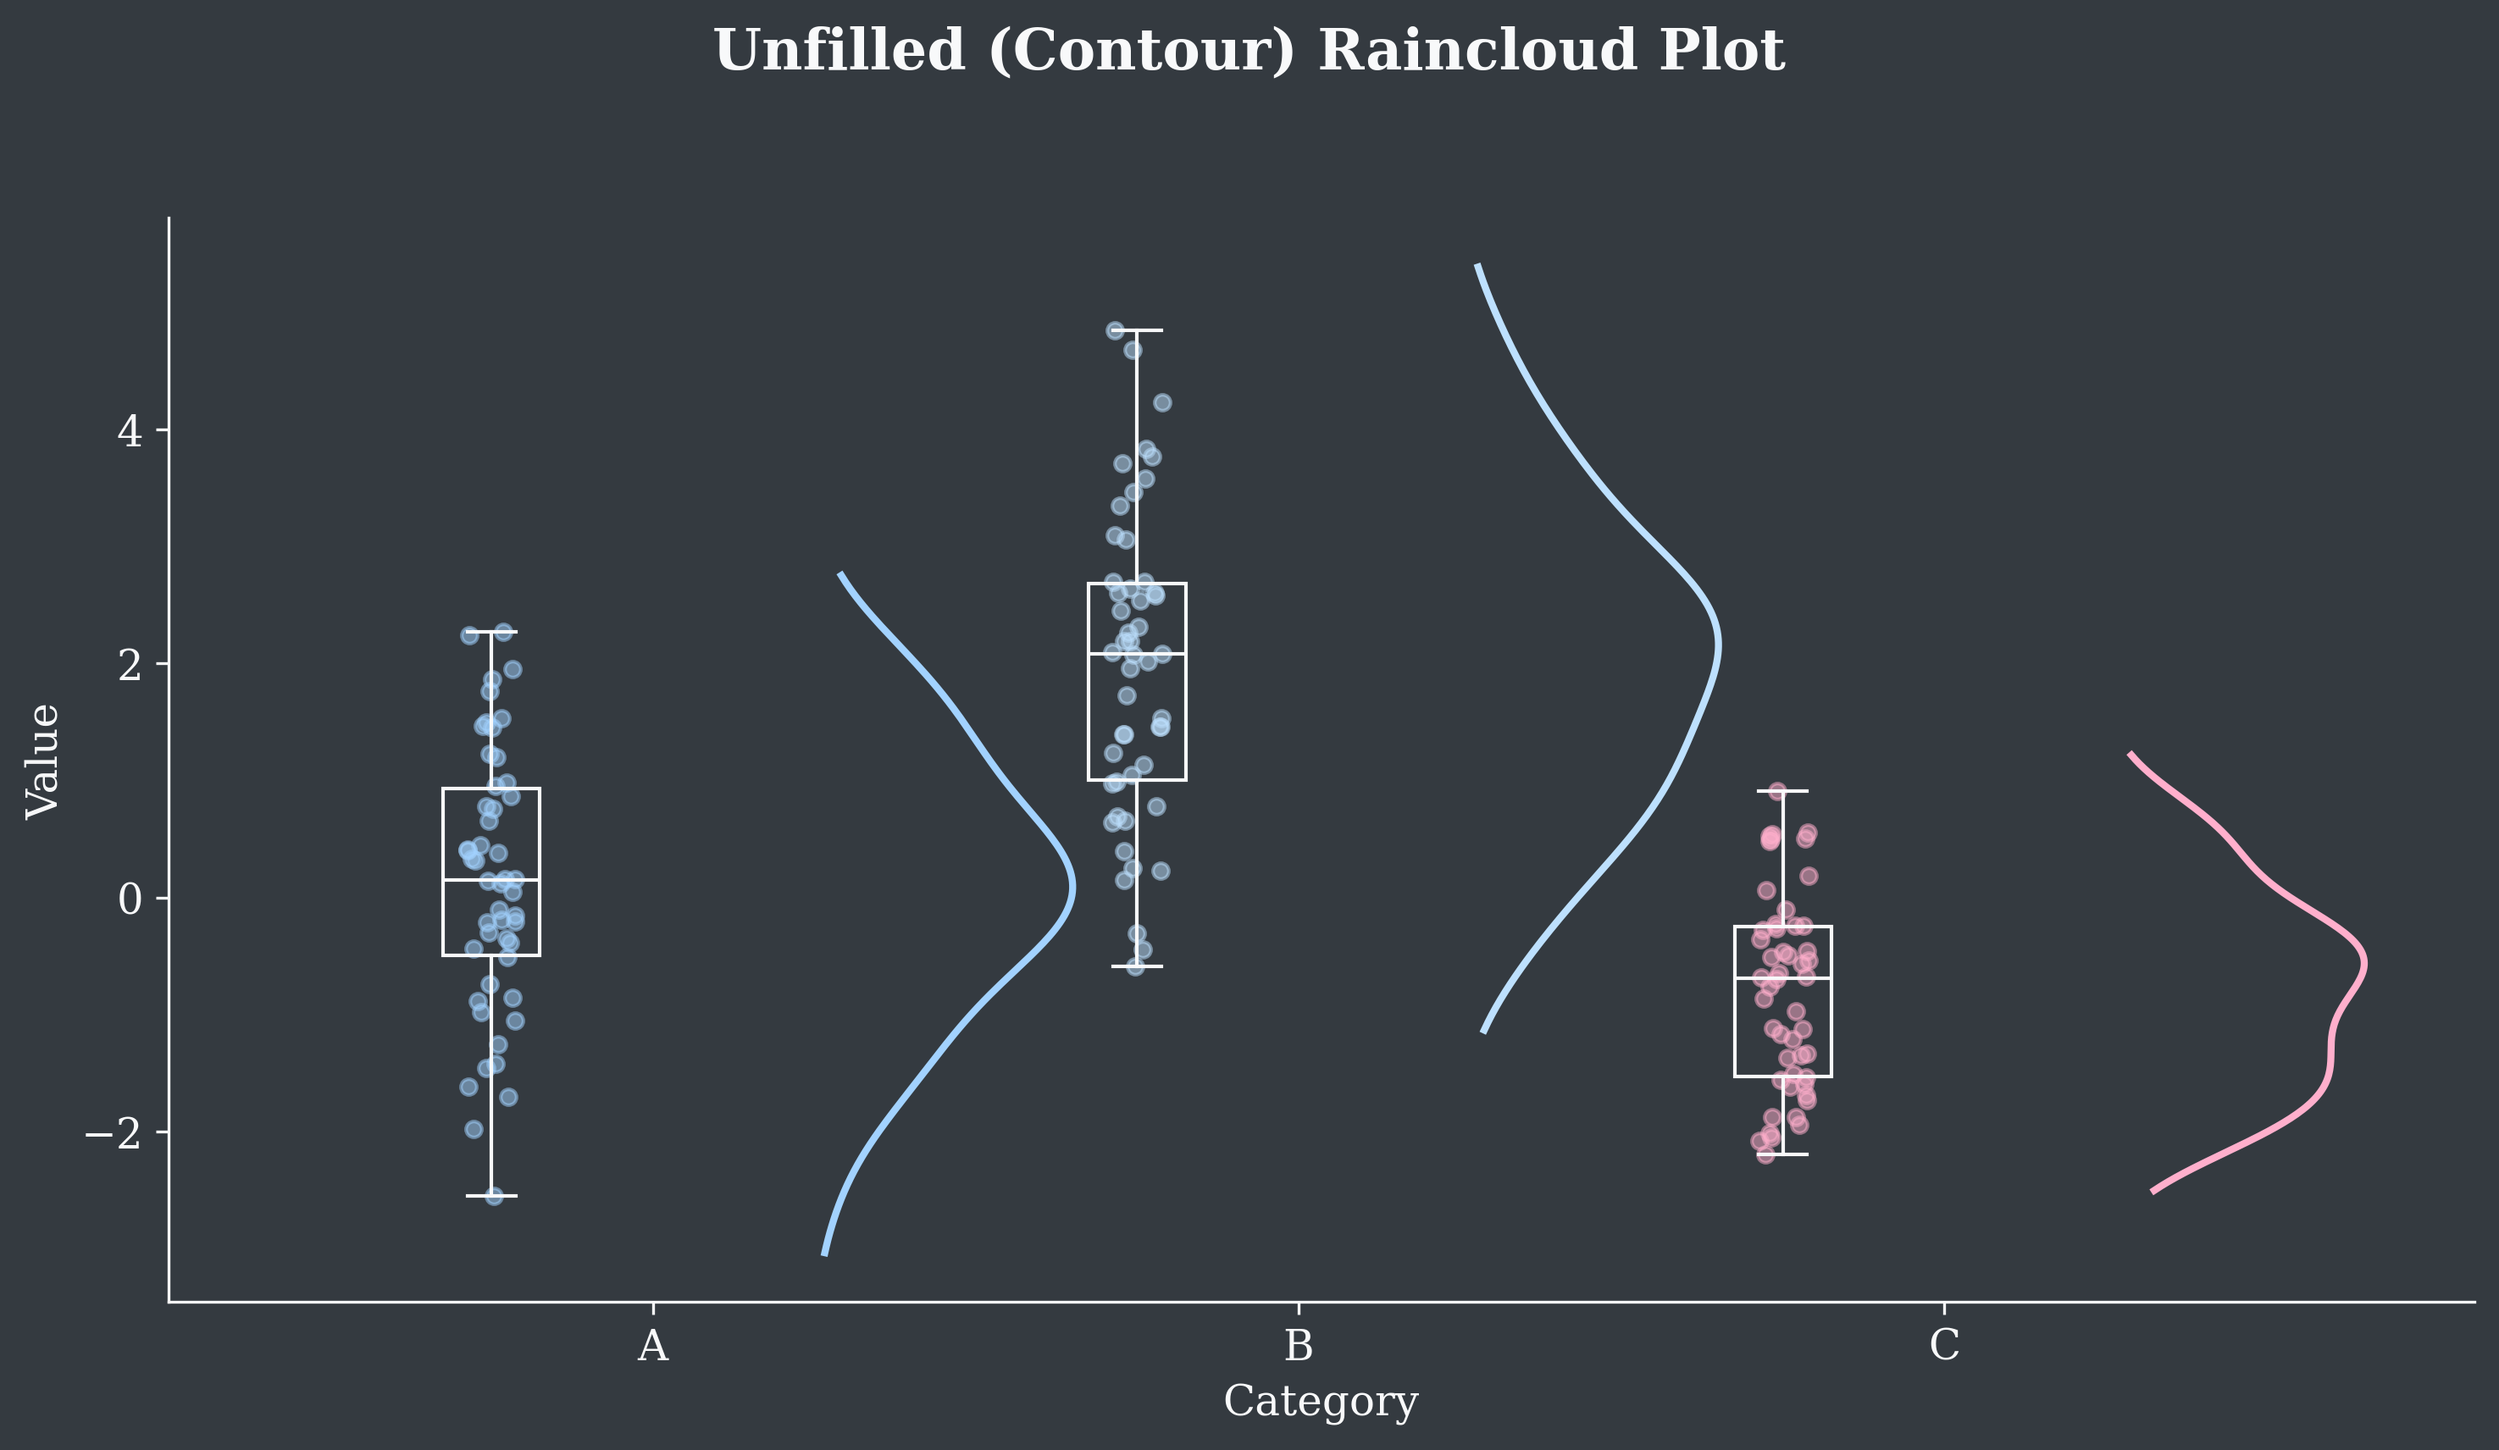
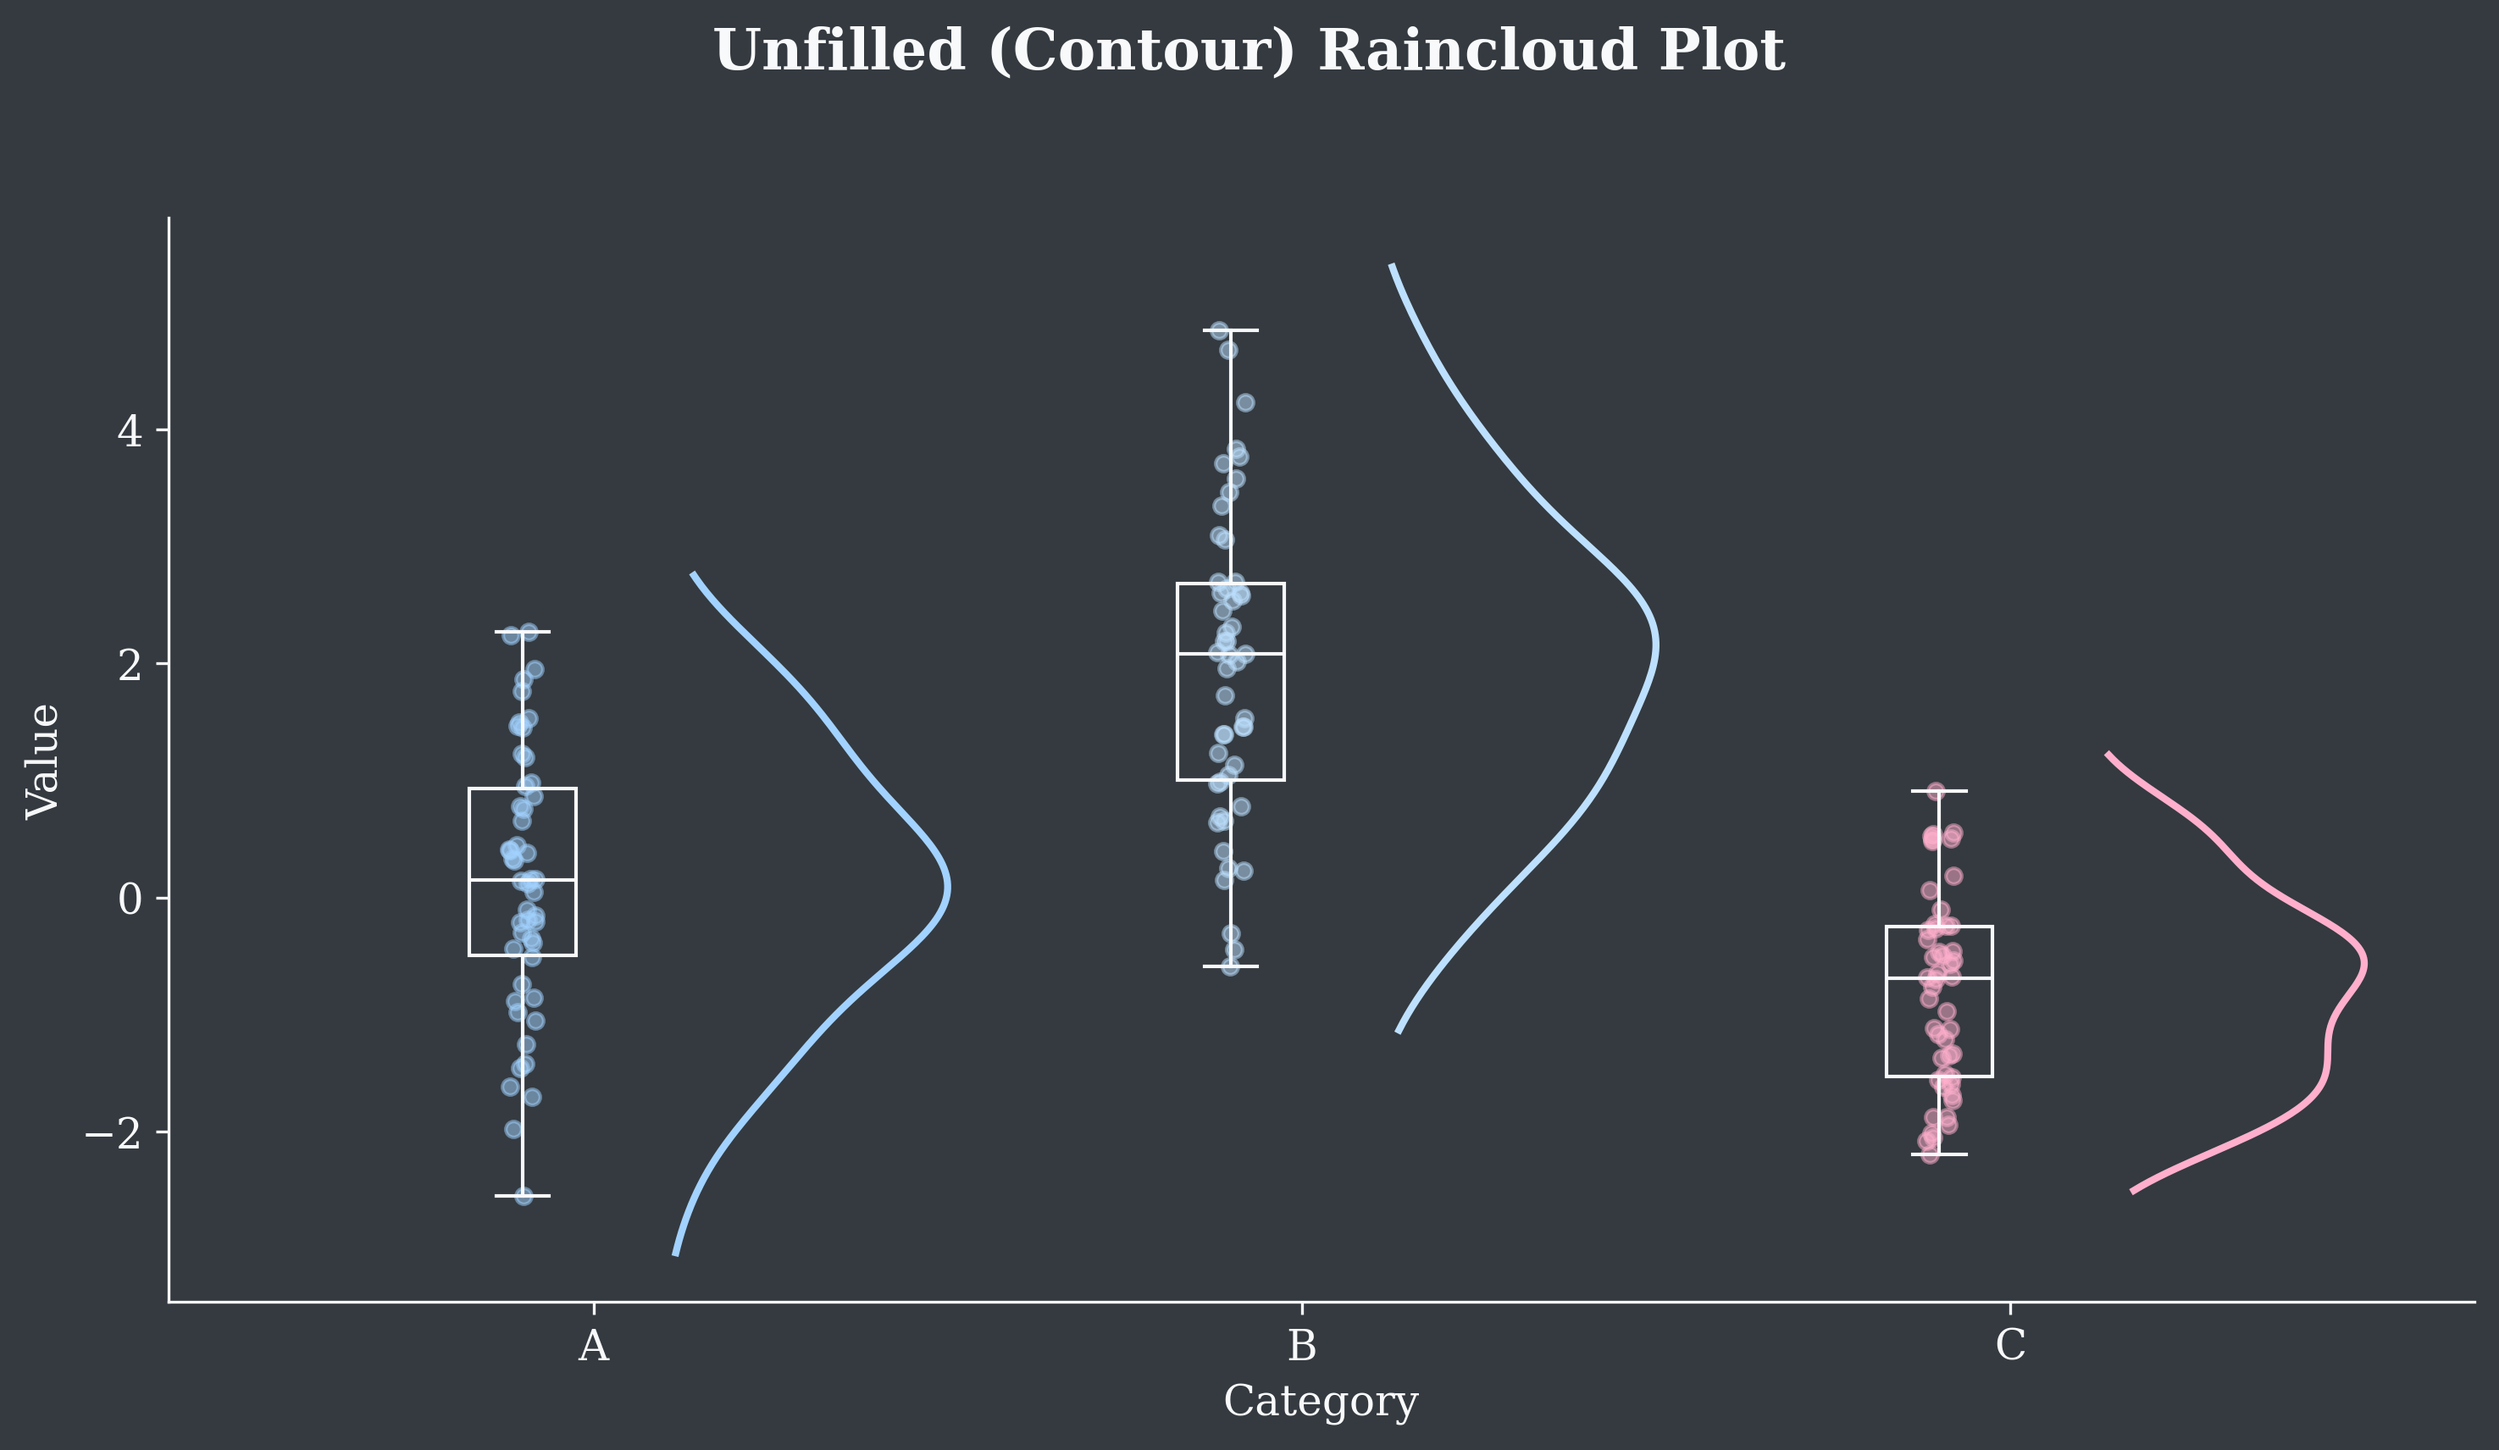
Adjusted raincloud plot spacing and jitter in demo

diff --git a/examples/raincloud_plot_demo.py b/examples/raincloud_plot_demo.py
@@ -29,7 +29,9 @@ try:
         x='Category',
         y='Value',
         violin_filled=True,
-        title="Filled Raincloud Plot"
+        title="Filled Raincloud Plot",
+        plot_offset=0.1,  # Adjusted for closer points and violin
+        jitter_amount=0.02 # Adjusted for tighter points
     )
     fig1.savefig(os.path.join(output_dir, "filled_raincloud_plot.png"), bbox_inches='tight')
     plt.close(fig1)
@@ -47,7 +49,9 @@ try:
         x='Category',
         y='Value',
         violin_filled=False,
-        title="Unfilled (Contour) Raincloud Plot"
+        title="Unfilled (Contour) Raincloud Plot",
+        plot_offset=0.1,  # Adjusted for closer points and violin
+        jitter_amount=0.02 # Adjusted for tighter points
     )
     fig2.savefig(os.path.join(output_dir, "unfilled_raincloud_plot.png"), bbox_inches='tight')
     plt.close(fig2)
